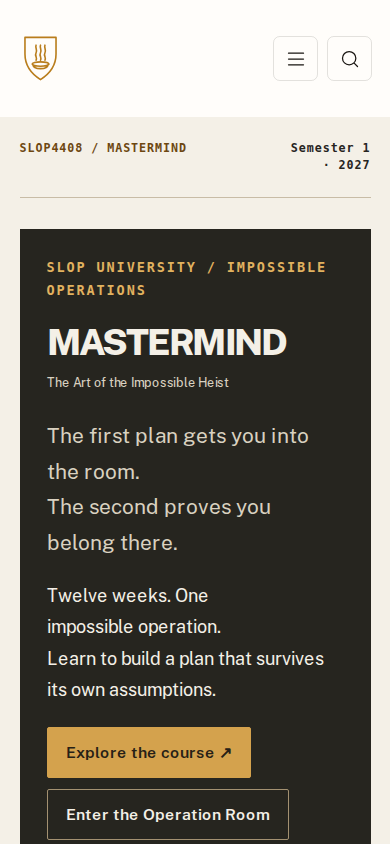
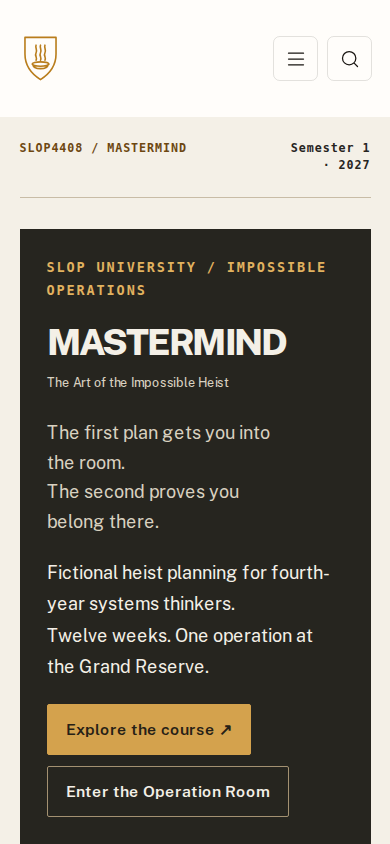
Finish the course introduction and supplied process narrative

Changed region(s): [[0.1231, 0.4929, 0.8308, 0.9858], [0.7077, 0.6469, 0.8308, 0.7085]]

diff --git a/src/styles/academy.css b/src/styles/academy.css
@@ -57,3 +57,5 @@ body::after{display:none}
 .academy-page h3,.academy-page legend{color:var(--academy-ink)}
 .at-nav a[aria-current="page"]{color:#8a5c13}
 .paper-nav{display:flex;flex-wrap:wrap;gap:1rem;padding:1rem 0;border-bottom:1px solid var(--academy-line)}
+
+@media(max-width:750px){.hero-board .intro{font-size:1rem;line-height:1.65}}

diff --git a/PROCESS.md b/PROCESS.md
@@ -1,53 +1,19 @@
 # Process overview
 
-<!-- TEMPLATE: this file is a shape to fill in, not a form. Replace everything
-     in it with your own overview, and delete this comment — `pnpm
-     check:evidence` will remind you if it's still here. -->
+I chose the heist idea because I wanted the course to have a strong identity that a student would remember immediately. I liked the fantasy of becoming a mastermind and planning an impossible heist, but I did not want the course to depend only on its theme. It gave me a way to put students inside situations with incomplete information, conflicting evidence, different motivations and plans that can fail even when they initially look perfect.
 
-Written by you, for a reader: how you got from the brief to the harness and
-agentic workflow behind this submission. Markers read this file and follow its
-citations; they don't trawl the repo for evidence you didn't point at.
+What I really wanted students to learn was how to make and defend decisions under uncertainty. They should distinguish evidence from assumptions, understand dependencies, consider people's incentives and recognise when new information should change their plan. My approved direction became the working agreement in [4c8495d](https://github.com/comp4020-agentic-coding-studio/comp4020-ass2-Adithya-Rama/commit/4c8495d): one operation across twelve weeks, explicit sources, preserved revisions and direct access to the teaching.
 
-This file is the shape; the course site's
-[assessment page](https://comp.anu.edu.au/courses/comp4020-agentic-coding-studio/topics/assessment/#what-you-submit)
-is the requirement, and its
-[word counts](https://comp.anu.edu.au/courses/comp4020-agentic-coding-studio/topics/assessment/#word-counts)
-cover every deliverable.
+The course-design references helped make that position concrete. [Calling Bullshit](https://callingbullshit.org/syllabus.html) sustains a position across its modules; [How to Make Almost Anything](https://fab.cba.mit.edu/classes/863.25/) connects weekly capabilities to larger work. In my course, each week changes the same operation. Students gather evidence, model the fictional system, form a crew and build a plan. Their later work depends on those records, which gives the early exercises a purpose beyond completing a worksheet.
 
-## What I built
+The central decision was to build towards a complete plan halfway through the semester and then break one of its assumptions. I wanted students to revise it without pretending the original mistake never happened. The implementation in [bc31705](https://github.com/comp4020-agentic-coding-studio/comp4020-ass2-Adithya-Rama/commit/bc31705) keeps the provisional rule and Version 1 available while a new document requires Version 2. The checks verify preservation and source relationships; the browser journey saves an original, makes a revision and checks that both explanations remain visible. This makes revision something a student can inspect.
 
-One paragraph: the thing, and the idea behind it.
+I also wanted to separate a good decision from a lucky outcome. A student should be able to fail the fictional heist and still demonstrate excellent reasoning. That became the assessment principle: evidence, reasoning, revision and defence matter, rather than simply winning. The rehearsal tests cover all 432 complete routes and establish predictable endings. They cannot establish whether a student's explanation is thoughtful. That judgement belongs with a reader.
 
-## How I got here
+The implementation review exposed a similar boundary in the website. Static checks passed while screenshots revealed a clipped hero and unreadable phone slides. A later browser audit found weak contrast in small gold text. The correction in [7ac8f66](https://github.com/comp4020-agentic-coding-studio/comp4020-ass2-Adithya-Rama/commit/7ac8f66) also strengthened the harness: inspect rendered content, use actual keyboard events, and verify the backup downloaded after storage fails. The [validation record](docs/VALIDATION.md) identifies these as agent-run observations, with their limits.
 
-The account of the process: how the work actually went, and how you knew the
-result was right. Tell it in whatever order makes it clear. A weekly prototype
-needs a paragraph or two; an assignment needs more.
+My aim remains for someone to arrive because the mastermind academy sounds fun and leave having practised careful thinking when information, people and conditions refuse to stay fixed. Automated checks protect the course's promises; coherence, voice and the quality of its reasoning still require personal judgement. Publishing is deferred to me, so local results are not presented as live-site acceptance.
 
-Cite the record as you go, as links whose text is the commit hash or range and
-whose target is this repo's commit or compare URL, so a reader clicks straight
-to the evidence:
+*Edited with coding-agent assistance from my supplied [original account](docs/AUTHOR-NOTES.md).*
 
-- one commit: [`a1b2c3d`](https://github.com/YOUR-ORG/YOUR-REPO/commit/a1b2c3d)
-- a range:
-  [`a1b2c3d...e4f5a6b`](https://github.com/YOUR-ORG/YOUR-REPO/compare/a1b2c3d...e4f5a6b)
-
-To pair a prompt with the commit it produced, quote the prompt (curated, not a
-full transcript) next to the citation:
-
-> the prompt, verbatim
-
-Screenshots are welcome where one carries the point better than a sentence does.
-Commit the file to this repo and link it with a **relative** path, which is what
-makes it render on GitHub: `![alt text](docs/before.png)`. Images don't count
-towards the word count and don't replace the citation.
-
-## Before you ship
-
-`pnpm check:evidence` verifies that this comment is gone, that your citations
-resolve to real commits, that a crit week's reflection entry is in
-`reflections/`, and that your `CLAUDE.md` is there. It checks that your account
-is traceable, not that it is good: that is the marker's call.
-
-Images aren't checked: unlike a citation whose SHA doesn't resolve, a broken
-image is visible the moment this file is rendered on GitHub.
+![The completed desktop course homepage](docs/evidence/home-desktop.png)

diff --git a/docs/VALIDATION.md b/docs/VALIDATION.md
@@ -7,6 +7,7 @@ Date: 15 September 2026. Reviewer: coding agent. Publication was deferred by Adi
 | Check | Result | What it establishes |
 | --- | --- | --- |
 | pnpm check | Pass; 30 tests, zero type diagnostics | Content integrity, symbolic rules, imports, preservation and rehearsal behaviour |
+| pnpm check:evidence | Pass; three real commit citations | Authored process account, harness and removal of all starter text/imagery |
 | Production build | 41 pages; 32 API nodes and 64 edges | Static output, base-path links, deck compilation, required collection/API contract |
 | Built-page accessibility | No reported violations | The starter's static accessibility checks |
 | Playwright browser suite | 32 passed | Sixteen journeys at each of 1920×1080 and 390×844 |
@@ -21,7 +22,7 @@ Axe retains incomplete contrast cases for the original decorative hero SVG; thes
 
 ## Agent review observations
 
-- **Home:** the first layout clipped the title and schematic within the hero. The before image is retained. The revised desktop frame displays both; phone layout presents the title and actions in one column. The decorative drawing appears further down the phone page.
+- **Home:** the first layout clipped the title and schematic within the hero. The before image is retained. The revised desktop frame displays both; phone layout presents the title and actions in one column. The opening also states the fictional premise, fourth-year audience and Grand Reserve target. Both main actions fit in the phone viewport; the decorative drawing appears further down.
 - **Week 2:** the distinction between an observed record, a witness claim and an assumption is explicit. Review found and corrected the witness quotation mismatch. The response asks which decision the uncertainty affects.
 - **Week 7:** E03 says it is provisional before E07 supersedes it. The old record remains in the archive. Both plans and the changed dependency are visible; direct-entry samples identify their provenance. The twist is inspectable course material.
 - **Week 11:** the different presets state their protocol versions. The comparison prompt asks about a specific decision, avoiding the claim that an ending alone establishes reasoning quality.

diff --git a/docs/DECISIONS.md b/docs/DECISIONS.md
@@ -45,3 +45,8 @@ The theme also marked Overview active on every nested base-path page and left it
 The keyboard test now enters classifications, reasoning and Save through keyboard events. A new network-throttled journey checks the readable worksheet and eventual activity controls. The current browser suite passes 32 tests. A test initially assumed the assessment index's title was literally Assessments; inspection showed the intended heading was Defend the decision. The test now checks the destination route and a visible heading rather than inventing page wording.
 
 Imports now reject incomplete historical runs, incomplete activity responses, unknown plan actions and revisions without an original. The required check passes 30 tests. See VALIDATION.md for evidence and explicit verification boundaries.
+## Local handoff
+
+PROCESS.md is a 496-word edited narrative based on Adithya's supplied account. It cites the real harness, implementation and rendered-review commits. The evidence gate passes with all three citations resolved locally and all starter material replaced or removed.
+
+The final opening-screen review moved the audience and fictional premise into the hero itself. The phone tagline is compact enough that both actions remain visible at 390×844. The final check passes 30 course/logic tests; all 32 browser journeys and 12 rendered accessibility checks pass after this change. The preview also returned HTTP 200 from Windows. These remain local results. Commits are unsigned; pushing remains deferred to Adithya.
